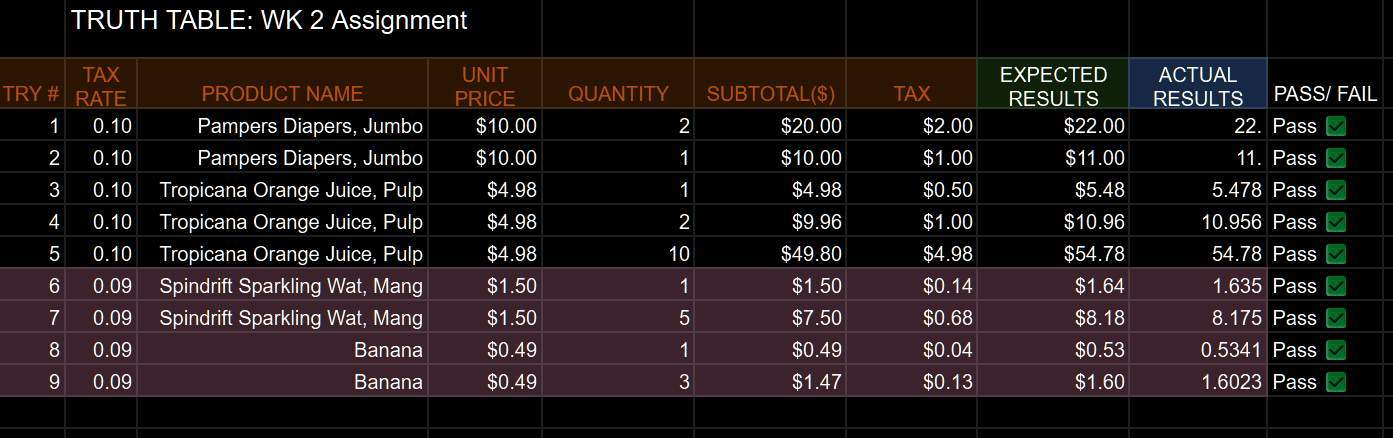
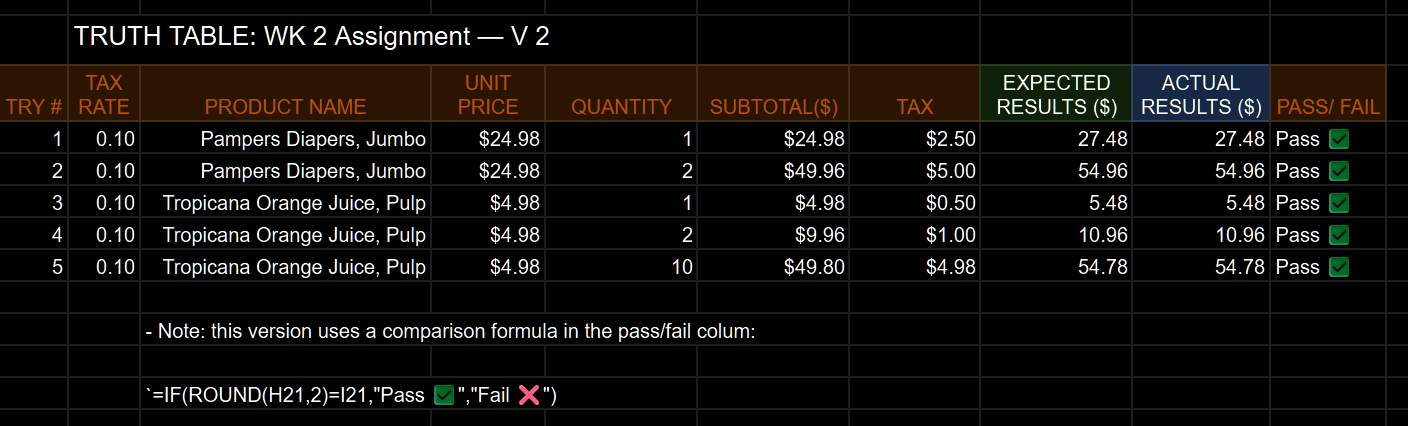
docs(courses/CIS161__Networking-Intro): add notes thru 4.5 and Checkpoint Exam

diff --git a/courses/Semester_1_Fall_26/CIS251__Cpp_Programming/Personal Projects/03__set-precision/03__fixed.cpp b/courses/Semester_1_Fall_26/CIS251__Cpp_Programming/Personal Projects/03__set-precision/03__fixed.cpp
@@ -1,0 +1,54 @@
+/* ************************************************************
+    Course: ESCC, CIS-251 - C++ Programming
+    PERSONAL PROJECT: Demo of setprecision() and table display
+
+    Student: Eric Hepperle
+    Created: 2026-09-01
+
+    Purpose: Uses `fixed` to ensure proper decimal precion display
+
+    Notes:
+    - `fixed` notation ensures that the decimal point stays in the desired place - you'll get everything to the left of the decimal place, but now the precision only applies to the number of digits to the right of the decimal; this operator is set and forget, so you can declare this one time near the top and unless you cancel/unset it, all numbers will display with this decimal precision
+    - `showpoint` is not necessary if you are using fixed + setprecision()
+
+    References:
+    - VIDEO: Professor hank Stalica - Mastering C++ Manipulators (https://www.youtube.com/watch?v=SXLwnZG3KPI)
+
+    GitHub: https://github.com/codewizard13
+    email: codewizard13@gmail.com
+ ************************************************************ */
+
+#include <iostream>
+#include <iomanip> // allows setprecision and the other table display operators
+using namespace std;
+
+int main(void) {
+	
+  double pi = 3.141592653;
+  double x = 1505;
+
+  // cout << fixed << setprecision(2) << pi << endl; // 3
+
+  // This is how to set the precision formatting (set-and-forget):
+  cout << setprecision(2) << fixed;
+
+  // Testing ouptut
+  cout << pi << endl; //  3.14
+  cout << x << endl; // 1505.00
+  cout << 19.95 << endl; // 19.95
+  cout << "$19.98702" << endl; // $19.98702
+
+  cout << endl;
+
+  // How to reset precision back to default
+  cout.unsetf(ios::fixed);
+
+  cout << pi << endl; //  3.14
+
+
+  // pause the program
+  cin.ignore();
+  cin.get();
+
+	return 0;
+}

diff --git a/courses/Semester_1_Fall_26/CIS251__Cpp_Programming/Personal Projects/03__set-precision/02__iomanip.cpp b/courses/Semester_1_Fall_26/CIS251__Cpp_Programming/Personal Projects/03__set-precision/02__iomanip.cpp
@@ -1,0 +1,45 @@
+/* ************************************************************
+    Course: ESCC, CIS-251 - C++ Programming
+    PERSONAL PROJECT: Demo of setprecision() and table display
+
+    Student: Eric Hepperle
+    Created: 2026-09-01
+
+    Purpose: Demonstrates why setprecision() alone won't format decimals correctly (hint: you also need `fixed`)
+
+    Notes:
+    - Must include <iomanip> at top
+    - setprecision() is a type of "string manipulator"
+    - setprecision() has to come before the field you are modifying
+    - setprecision() automatically rounds
+    - The furthest left digit is called the "most significant digit"; precision digits is counted from the msd
+
+    References:
+    - VIDEO: Professor hank Stalica - Mastering C++ Manipulators (https://www.youtube.com/watch?v=SXLwnZG3KPI)
+
+    GitHub: https://github.com/codewizard13
+    email: codewizard13@gmail.com
+ ************************************************************ */
+
+#include <iostream>
+#include <iomanip> // allows setprecision and the other table display operators
+using namespace std;
+
+int main(void) {
+	
+  double pi = 3.141592653;
+
+  cout << setprecision(1) << pi << endl; // 3
+  cout << setprecision(2) << pi << endl; // 3.1
+  cout << setprecision(3) << pi << endl; // 3.14
+  cout << setprecision(4) << pi << endl; // 3.142
+  cout << setprecision(5) << pi << endl; // 3.1416
+
+  // #GOTCHA: If the most significant digit is more than one digit (eg, 164), the decimal places wont work
+
+  // pause the program
+  cin.ignore();
+  cin.get();
+
+	return 0;
+}

diff --git a/courses/Semester_1_Fall_26/CIS251__Cpp_Programming/Week_02/Assignments/Programming-Assignment_try2/Receipt-Simulator.cpp b/courses/Semester_1_Fall_26/CIS251__Cpp_Programming/Week_02/Assignments/Programming-Assignment_try2/Receipt-Simulator.cpp
@@ -13,12 +13,13 @@
     Notes:
     - Based on instructor feedback (see try 1), this version ensures 2-digit decimal precision,
       and consistent 10% tax rate for testing. 
-    - Previous rationale comments have been removed from this version
+    - Previous rationale comments have been removed from this version for code hygeine.
 
     GitHub: https://github.com/codewizard13
     email: codewizard13@gmail.com
  ************************************************************ */
 #include <iostream>
+#include <iomanip>
 using namespace std;
 
 int main(void) {
@@ -30,9 +31,11 @@ int main(void) {
 
     const double TAX_RATE = 0.10;
 
+    cout << setprecision(2) << fixed;
+
+    cout << "\n" << "****************************" << "\n";
     cout << "Welcome to Eric Hepperle's Product Purchase Simulator!" << "\n\n";
     cout << "Please enter a product name: ";
-    // cin >> product_name;
     getline(cin, product_name);
 
     cout << "Enter the unit price: $";
@@ -53,6 +56,8 @@ int main(void) {
     cout << "SUBTOTAL:\t$" << subtotal << endl;
     cout << "SALES TAX:\t$" << tax << endl;
     cout << "TOTAL:\t\t$" << total << endl;
+
+    cout << endl;
 
 	return 0;
 }

diff --git a/courses/Semester_1_Fall_26/CIS251__Cpp_Programming/Personal Projects/03__set-precision/01__default-prec.cpp b/courses/Semester_1_Fall_26/CIS251__Cpp_Programming/Personal Projects/03__set-precision/01__default-prec.cpp
@@ -1,0 +1,33 @@
+/* ************************************************************
+    Course: ESCC, CIS-251 - C++ Programming
+    PERSONAL PROJECT: Demo of setprecision() and table display
+
+    Student: Eric Hepperle
+    Created: 2026-09-01
+
+    Purpose: To try out using setprecision, fixed, showpoint, left, right, and setw.
+
+    References:
+    - VIDEO: Professor hank Stalica - Mastering C++ Manipulators (https://www.youtube.com/watch?v=SXLwnZG3KPI)
+
+    GitHub: https://github.com/codewizard13
+    email: codewizard13@gmail.com
+ ************************************************************ */
+
+#include <iostream>
+using namespace std;
+
+int main(void) {
+	
+  double pi = 3.141592653;
+
+  cout << pi << endl;
+  // result:  3.14159
+  // Because C++ by default will only show you 6 digits per field
+
+  // pause the program
+  cin.ignore();
+  cin.get();
+
+	return 0;
+}

diff --git a/courses/Semester_1_Fall_26/CIS161__Networking_Intro/Week_02/Notes/00__Week 2.md b/courses/Semester_1_Fall_26/CIS161__Networking_Intro/Week_02/Notes/00__Week 2.md
@@ -847,6 +847,8 @@ Specifies the channel over which communication will occur. By default, this is s
 SSID Broadcast
 Determines if the SSID will be broadcast to all devices within range. By default, set to Enabled.
 
+> SSID set to **ENABLED** by default
+
 Note: SSID stands for Service Set Identifier.
 
 ![alt text](image-23.png)
@@ -860,11 +862,15 @@ A mixed mode wireless network environment can include devices that use any of th
 
 When building a wireless network, it is important that the wireless components connect to the appropriate WLAN. This is done using the SSID.
 
-The SSID is a case-sensitive, alphanumeric string that contains up to 32 characters. It is sent in the header of all frames transmitted over the WLAN. The SSID is used to tell wireless devices, called wireless stations (STAs), which WLAN they belong to and with which other devices they can communicate.
+The SSID is a **case-sensitive**, alphanumeric string that contains up to 32 characters. It is sent in the header of all frames transmitted over the WLAN. The SSID is used to tell wireless devices, called wireless stations (STAs), which WLAN they belong to and with which other devices they can communicate.
 
 We use the SSID to identify a specific wireless network. It is essentially the name of the network. Wireless routers usually broadcast their configured SSIDs by default. The SSID broadcast allows other devices and wireless clients to automatically discover the name of the wireless network. When the SSID broadcast is disabled, you must manually enter the SSID on wireless devices.
 
 Disabling SSID broadcasting can make it more difficult for legitimate clients to find the wireless network. However, simply turning off the SSID broadcast is not sufficient to prevent unauthorized clients from connecting to the wireless network. All wireless networks should use the strongest available encryption to restrict unauthorized access.
+
+> - BLUETOOTH is used for low-speed communication between peripheral devices
+>
+> - WAN Port - the **internet port** of a wireless router
 
 
 ---
@@ -889,6 +895,8 @@ If SSID broadcasting is on, the SSID name will be seen by all wireless clients w
 
 What types of devices will attach to my network?
 Wireless devices contain radio transmitter/receivers that function within a specific frequency range. If a device only has the necessary radio for 802.11 b/g, it will not connect if the wireless router or access point is configured to only accept 802.11n or 802.11ac standards. If all devices support the same standard, the network will work at its optimum speed. If you have devices that do not support the n or ac standards, then you will have to enable legacy mode. A legacy mode wireless network environment varies between router models but can include a combination of 802.11a, 802.11b, 802.11g, 802.11n, and 802.11ac. This environment provides easy access for legacy devices that need a wireless connection.
+
+> IEEE **802.11b and 802.11g wireless standards operate exclusively on the 2.4 GHz** radio frequency band (specifically the 2.4 GHz ISM band spanning roughly 2400 MHz to 2484 MHz).
 
 
 How do I add new devices?
@@ -1085,60 +1093,105 @@ You have now completed connecting network devices, configuring the router and wi
 > !!! RESUME AT STEP 3!
 
 
+![alt text](image-27.png)
+
+![alt text](image-28.png)
+
+![alt text](image-29.png)
+
+
+> !!! RESUME AT PART 3, Step 2: Test connectivity from the Office PC.
+
+![alt text](image-30.png)
+
+![alt text](image-31.png)
+
+![alt text](image-32.png)
+
+![alt text](image-33.png)
+
+#PROOF
+
+![alt text](image-34.png)
+
+
+![alt text](image-35.png)
+
+4.5. Build a Home Network Summary
 
 
 
+---
+
+4.5.1 What Did I Learn in this Module?
+
+Setup a Home Router
+
+Many wireless routers designed for home use have an automatic setup utility that can be used to configure the basic settings on the router. To connect to the router using a wired connection, plug an Ethernet patch cable into the network port on the computer. Plug the other end into a LAN port on the router.
+
+After the computer is connected to the network router and the link lights on the NIC indicate a working connection, the computer needs an IP address. Most network routers are set up so that the computer receives an IP address automatically from a local DHCP server automatically configured on the wireless router.
+
+Before entering the configuration utility, or manually configuring the router through a web browser, you should consider how your network will be used. Consider what you will call your network and what devices should connect to your network. It is not a good practice to include the device model or brand name as part of the SSID since internet searches can expose security weaknesses.
+
+The decision regarding who can access your home network should be determined by how you plan to use the network. Many routers support MAC address filtering. This enables you to specifically identify who is allowed on the wireless network. This makes the wireless network more secure, but it also less flexible when connecting new devices. On some wireless routers, it is possible to set up guest access. This is a special SSID coverage area that allows open access but restricts that access to using the internet only.
+
+
+---
+
+4.5.3 Build a Home Network Quiz
+
+#PROOF
+
+![alt text](image-36.png)
+
+---
+
+## CHECKPOINT EXAM: Build a Small Network
 
 
 
+> MAC filtering is configured on the wireless router or access point. It checks a device’s **MAC address**—its network adapter’s hardware address—against an allow or deny list.
+> 
+> - An allowed MAC address can join the Wi‑Fi network.
+> - A blocked or unlisted MAC address is denied access, depending on how the filter is configured. [cisco](https://www.cisco.com/c/dam/assets/sol/sb/WAP571_Emulators/WAP571_Emulator_v1-0-0-14/help/en/aa1049274.html)
+> 
+> ## Why the others are wrong
+> 
+> - “It allows only authorized users to detect the network” describes hiding the SSID, not MAC filtering.
+> - “It is configured on the computer rather than on the router” is incorrect; the access point/router maintains the filter list.
+> - “It encrypts data” describes Wi‑Fi security such as WPA2/WPA3, not MAC filtering.
+> 
+> One exam note: MAC filtering provides limited security because MAC addresses can be spoofed, so it should supplement—not replace—WPA2/WPA3 encryption and a strong password. [cisco](https://www.cisco.com/c/en/us/td/docs/wireless/controller/ewc/17-15/config-guide/ewc_cg_17_15/mac_authentication_bypass.html)
 
 
 
+#PROOF Try 1
+
+![alt text](image-37.png)
+
+![alt text](image-38.png)
+
+![alt text](image-39.png)
+
+![alt text](image-40.png)
+
+![alt text](image-41.png)
+
+![alt text](image-42.png)
 
 
+> #GOTCHA: DSL is considered **"high-speed**
 
 
+![alt text](image-43.png)
 
 
+#PROOF
+
+![alt text](image-44.png)
 
 
+---
 
-
-
-
-
-
-
-
-
-
-
-
-
-
-
-
-
-
-
-
-
-
-
-
-
-
-
-
-
-
-
-
-
-
-
-
-
-
-
+5.0. Introduction
 
